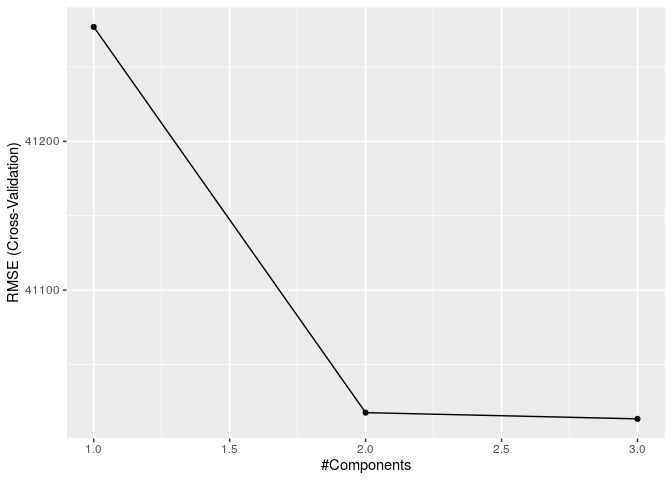
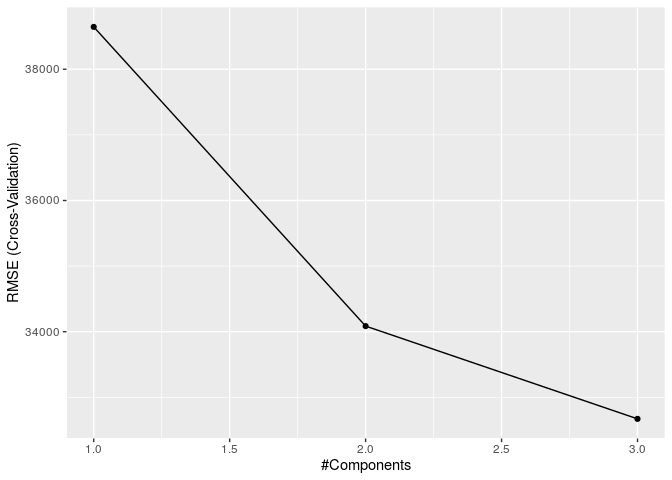
menambahkan dokumentasi pls

diff --git a/pl-regression.md b/pl-regression.md
@@ -1,4 +1,4 @@
-Principle Component Regression
+Partial Least Square Regression
 ================
 Moh. Rosidi
 7/24/2020
@@ -853,16 +853,19 @@ Data summary
 | Latitude             |          0 |              1 |      0.0 |     1.0 |   \-2.61 |    \-0.67 |   1.0e-02 |      0.83 |      1.58 | ▂▂▇▇▇ |
 | Sale\_Price          |          0 |              1 | 180996.3 | 80258.9 | 13100.00 | 129500.00 |   1.6e+05 | 213500.00 | 755000.00 | ▇▇▁▁▁ |
 
-# Principal Components Regression
+# Partial Least Square Regression
 
-Analisis komponen utama dapat digunakan untuk mewakili variabel
-berkorelasi dengan sejumlah kecil fitur tidak berkorelasi (disebut
-komponen prinsip) dan komponen yang dihasilkan dapat digunakan sebagai
-prediktor dalam model regresi linier. Proses dua langkah ini dikenal
-sebagai *Principal Components Regression* (PCR) (Massy 1965) dan
-diilustrasikan dalam gambar di bawah ini.
+Partial least square (PLS) dapat dilihat sebagai prosedur reduksi
+dimensi secara *supervised* (Kuhn dan Johnson 2013). Mirip dengan PCR,
+teknik ini juga membangun satu set kombinasi linear dari input untuk
+regresi, tetapi tidak seperti PCR, PLS yang menggunakan variabel respon
+untuk membantu pembangunan komponen utama seperti diilustrasikan pada
+gambar di bawah. Dengan demikian, kita dapat menganggap PLS sebagai
+prosedur pengurangan dimensi yang diawasi yang menemukan fitur baru yang
+tidak hanya menangkap sebagian besar informasi dalam fitur asli, tetapi
+juga terkait dengan respons.
 
-![](https://bradleyboehmke.github.io/HOML/images/pcr-steps.png)
+![](https://bradleyboehmke.github.io/HOML/images/pls-vs-pcr.png)
 
 ## Validasi Silang dan Parameter Tuning
 
@@ -889,10 +892,10 @@ training dilakukan menggunakan fungsi `train()`.
 
 ``` r
 system.time(
-pc_fit_cv <- train(
+pls_fit_cv <- train(
   blueprint, 
   data = ames_train, 
-  method = "pcr", 
+  method = "pls", 
   trControl = cv, 
   metric = "RMSE"
   )
@@ -900,13 +903,13 @@ pc_fit_cv <- train(
 ```
 
     ##    user  system elapsed 
-    ##   6.304   0.048   6.377
+    ##   5.857   0.067   5.952
 
 ``` r
-pc_fit_cv
+pls_fit_cv
 ```
 
-    ## Principal Component Analysis 
+    ## Partial Least Squares 
     ## 
     ## 2053 samples
     ##   73 predictor
@@ -917,9 +920,9 @@ pc_fit_cv
     ## Resampling results across tuning parameters:
     ## 
     ##   ncomp  RMSE      Rsquared   MAE     
-    ##   1      41276.93  0.7380228  28747.61
-    ##   2      41017.59  0.7408664  28937.02
-    ##   3      41013.40  0.7409793  28915.18
+    ##   1      38645.44  0.7705851  26958.18
+    ##   2      34085.27  0.8223980  23584.28
+    ##   3      32671.61  0.8372443  22472.29
     ## 
     ## RMSE was used to select the optimal model using the smallest value.
     ## The final value used for the model was ncomp = 3.
@@ -930,25 +933,25 @@ yang terpilih adalalah model yang memiliki nilai `ncomp` = 3. Nilai
 **RMSE** rata-rata model terbaik adalah sebagai berikut:
 
 ``` r
-pc_rmse <- pc_fit_cv$results %>%
+pls_rmse <- pls_fit_cv$results %>%
   arrange(RMSE) %>%
   slice(1) %>%
   select(RMSE) %>%
   pull()
-pc_rmse
+pls_rmse
 ```
 
-    ## [1] 41013.4
+    ## [1] 32671.61
 
 Berdasarkan hasil yang diperoleh, nilai **RMSE** rata-rata model sebesar
-4.101339910^{4}.
+3.267161110^{4}.
 
 Visualisasi hubungan antar parameter dan **RMSE** ditampilkan pada
 gambar berikut:
 
 ``` r
 # visualisasi
-ggplot(pc_fit_cv)
+ggplot(pls_fit_cv)
 ```
 
 ![](temp_files/figure-gfm/pc-cv-vis-1.png)<!-- -->
@@ -964,48 +967,48 @@ membuat ukuran objek menjadi besar. Untuk menguranginya, kita perlu
 mengambil objek model final dari objek hasil validasi silang.
 
 ``` r
-pc_fit <- pc_fit_cv$finalModel
+pls_fit <- pls_fit_cv$finalModel
 ```
 
 Untuk melihat performa sebuah model regresi adalah dengan melihat
 visualisasi nilai residunya. Berikut adalah sintaks yang digunakan:
 
 ``` r
-plot(pc_fit)
+plot(pls_fit)
 ```
 
-![](temp_files/figure-gfm/pc-res-vis-1.png)<!-- -->
+![](temp_files/figure-gfm/pls-res-vis-1.png)<!-- -->
 
 Ringkasan model ditampilkan sebagai berikut:
 
 ``` r
-summary(pc_fit)
+summary(pls_fit)
 ```
 
     ## Data:    X dimension: 2053 97 
     ##  Y dimension: 2053 1
-    ## Fit method: svdpc
+    ## Fit method: oscorespls
     ## Number of components considered: 3
     ## TRAINING: % variance explained
     ##           1 comps  2 comps  3 comps
-    ## X           14.00    21.47    26.98
-    ## .outcome    73.43    73.90    73.92
+    ## X           13.94    17.75    22.71
+    ## .outcome    76.94    82.96    84.64
 
 Model yang dihasilkan selanjutnya dapat kita uji lagi menggunakan data
 baru. Berikut adalah perhitungan nilai **RMSE** model pada data *test*.
 
 ``` r
-pred_test <- predict(pc_fit, baked_test)
+pred_test <- predict(pls_fit, baked_test)
 
 ## RMSE
 rmse <- RMSE(pred_test, baked_test$Sale_Price, na.rm = TRUE)
 rmse
 ```
 
-    ## [1] 42838.84
+    ## [1] 42014.4
 
 Berdasarkan hasil evaluasi diperoleh nilai akurasi sebesar
-4.283883910^{4}
+4.201439910^{4}
 
 ## Interpretasi Fitur
 
@@ -1013,32 +1016,32 @@ Untuk mengetahui variabel yang paling berpengaruh secara global terhadap
 hasil prediksi model, kita dapat menggunakan plot *variable importance*.
 
 ``` r
-vi <- vip(pc_fit_cv, num_features = 10)
+vi <- vip(pls_fit_cv, num_features = 10)
 vi
 ```
 
-![](temp_files/figure-gfm/pc-vip-1.png)<!-- -->
+![](temp_files/figure-gfm/pls-vip-1.png)<!-- -->
 
 Berdasarkan terdapat 4 buah variabel yang berpengaruh besar terhadap
 prediksi yang dihasilkan oleh model, antara lain: Gr\_Liv\_Area,
-Total\_Bsmt\_SF, First\_Flr\_SF, Garage\_Area. Untuk melihat efek
+Total\_Bsmt\_SF, First\_Flr\_SF, Garage\_Cars. Untuk melihat efek
 masing-masing variabel tersebut, jalankan perintah berikut:
 
 ``` r
-p1 <- pdp::partial(pc_fit_cv, pred.var = as.character(vi$data[1,1] %>% pull())) %>% 
+p1 <- pdp::partial(pls_fit_cv, pred.var = as.character(vi$data[1,1] %>% pull())) %>% 
   autoplot() 
 
-p2 <- pdp::partial(pc_fit_cv, pred.var = as.character(vi$data[2,1] %>% pull())) %>% 
+p2 <- pdp::partial(pls_fit_cv, pred.var = as.character(vi$data[2,1] %>% pull())) %>% 
   autoplot()
 
-p3 <- pdp::partial(pc_fit_cv, pred.var = as.character(vi$data[3,1] %>% pull())) %>% 
+p3 <- pdp::partial(pls_fit_cv, pred.var = as.character(vi$data[3,1] %>% pull())) %>% 
   autoplot()
   
 
-p4 <- pdp::partial(pc_fit_cv, pred.var = as.character(vi$data[4,1] %>% pull())) %>% 
+p4 <- pdp::partial(pls_fit_cv, pred.var = as.character(vi$data[4,1] %>% pull())) %>% 
   autoplot()
 
 grid.arrange(p1, p2, p3, p4, nrow = 2)
 ```
 
-![](temp_files/figure-gfm/pc-pdp-1.png)<!-- -->
+![](temp_files/figure-gfm/pls-pdp-1.png)<!-- -->

diff --git a/README.md b/README.md
@@ -10,7 +10,7 @@ Repository ini berisi kode sumber dari worshop **Predictive Analytics with R**. 
 ## Dokumentasi Regresi
 
 1. [Regresi Linier]()
-2. [Principle Component Regression]()
+2. [Principle Component Regression](https://github.com/mohrosidi/predictive_R/blob/master/pc-regression.md#principle-component-regression)
 3. [Partial Least Square]()
 4. [Regularized Regression](https://github.com/mohrosidi/predictive_R/blob/master/regularized-regression.md#regularized-regression)
 5. [Multivariate Adaptive Regression Splines](https://github.com/mohrosidi/predictive_R/blob/master/mars-regression.md)
